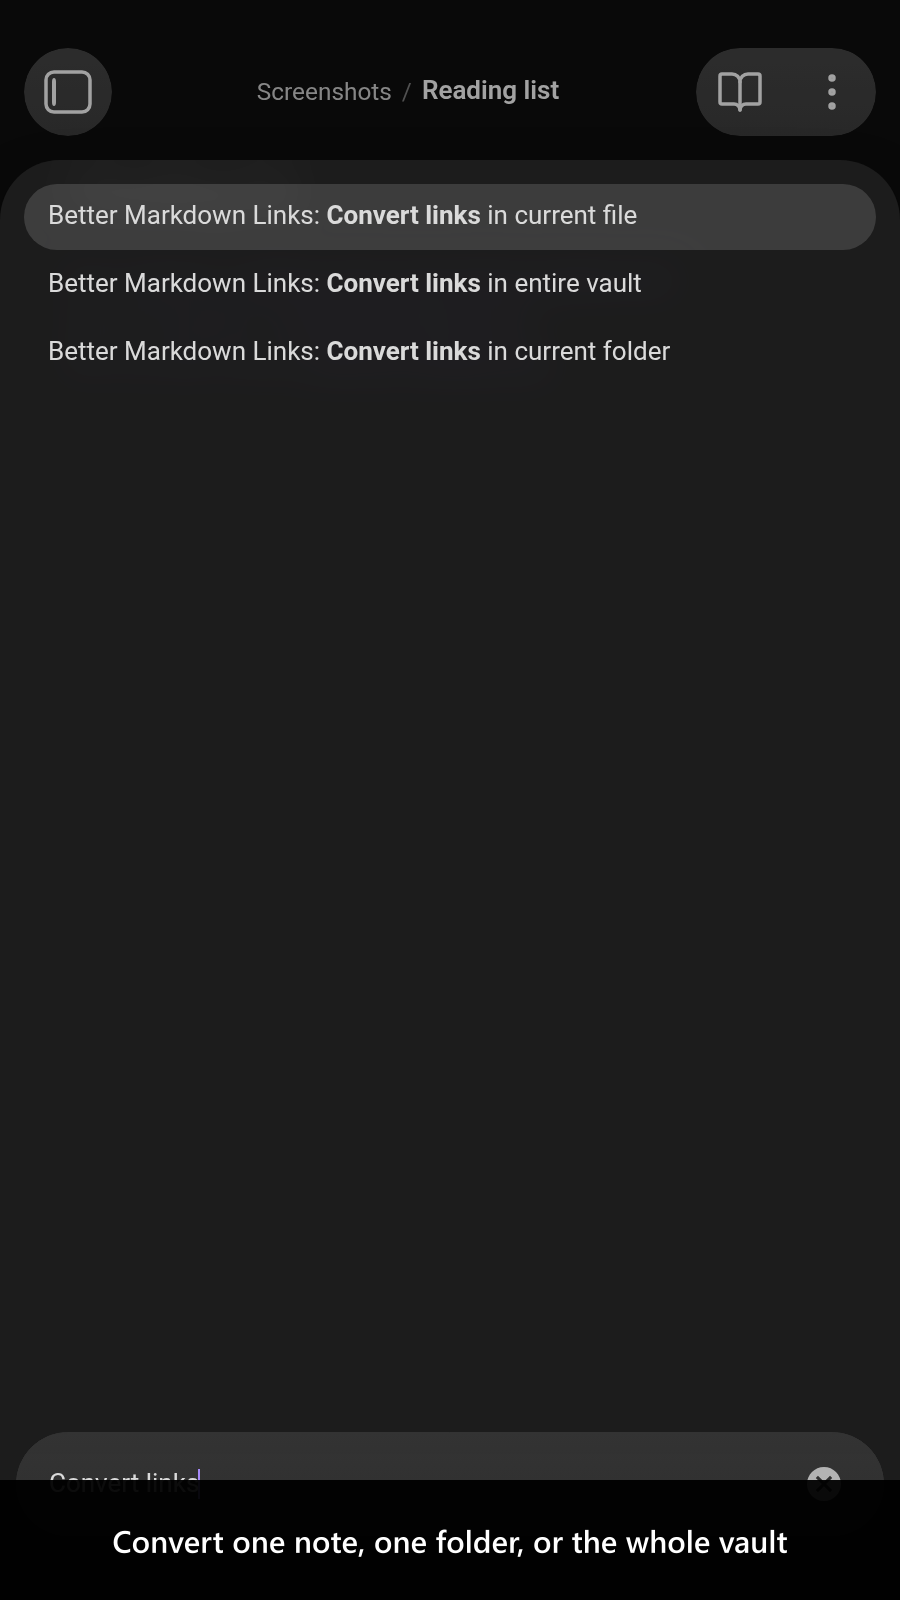
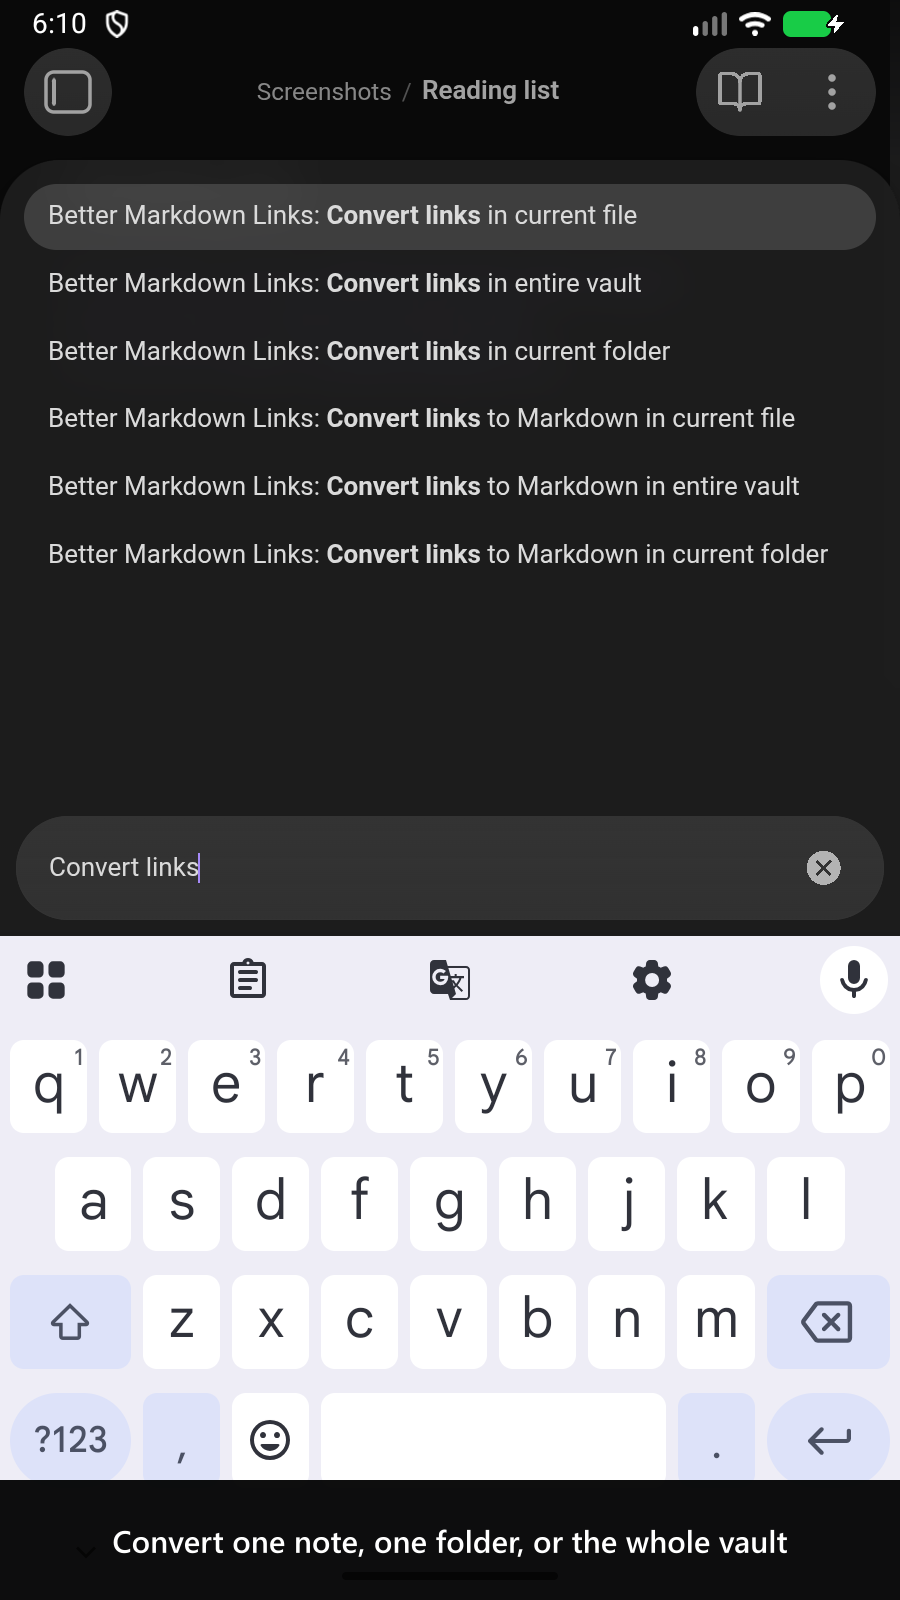
test(integration): take the palette frame with the soft keyboard up
The command-palette frame is a focused search field over nothing: the page
capture it used cannot show a keyboard, because it drives Appium in the
WebView context and the IME is a system window rather than part of the page.
So two thirds of the frame was an empty band where a phone shows a keyboard,
and the caption band - drawn across the bottom of the image - landed on the
field itself.

That frame now comes from the device framebuffer with the keyboard raised
first. Measured as the largest contiguous flat row-run it falls from 67.0% to
15.8%, and all six convert commands plus the typed query are legible, which is
what the caption promises. Both halves of raising it come from the harness:
the AVD is built with a hardware keyboard attached, so Android suppresses the
on-screen one until the device setting is flipped, and a WebView will not ask
for an IME on programmatic focus alone, so it takes a real touch on the field.
The setting is restored exactly afterwards, including the case where it had
never been written.

Two other things had to be fixed to get a usable frame at all.

The companion-plugin suggestion is now dismissed before any shot. The temp
vault holds only this plugin, so the offer to install Advanced Rename and
Delete Handler always fires, and its notice sat across the top of every frame
- covering the first palette row in the very shot whose subject is that list.
It takes two clicks and both are needed: Not now records the decline, but the
[…]

diff --git a/src/screenshots.android-capture.integration.test.ts b/src/screenshots.android-capture.integration.test.ts
@@ -20,10 +20,14 @@ import {
 import { join } from 'node:path';
 import process from 'node:process';
 import {
+  captureDeviceScreenshot,
   captureObsidianScreenshot,
   evalInObsidian,
   labelScreenshot,
-  readPngDimensions
+  raiseSoftKeyboard,
+  readPngDimensions,
+  resolveEmulatorDeviceId,
+  withSoftKeyboardEnabled
 } from 'obsidian-integration-testing';
 import { getTemporaryVault } from 'obsidian-integration-testing/vitest-global-setup-plugin';
 import {
@@ -70,7 +74,40 @@ const PLAIN_NOTE_PATH = 'Screenshots/Second chapter.md';
 
 const IMAGES_DIRECTORY = join(process.cwd(), 'images', 'screenshots');
 
+/**
+ * The AVD the frames are taken on, matched by name.
+ *
+ * Never the first device `adb devices` lists: a physical phone is routinely plugged into the same
+ * machine, and the shared AVD the cross-platform suites drive is a different size.
+ */
+const AVD_NAME = 'obsidian_screenshots';
+
+/**
+ * Obsidian's command palette input, read off this suite's own palette helper rather than assumed: the
+ * palette renders `.prompt input`, which is not the `.prompt-input` a suggester renders.
+ */
+const PALETTE_INPUT_SELECTOR = '.prompt input';
+
+/**
+ * The button that turns down the companion-plugin suggestion — see
+ * {@link declineCompanionPluginSuggestion}.
+ *
+ * The label comes from the shared library's own translations, so it is quoted here rather than
+ * constructed.
+ */
+const SUGGESTION_DECLINE_LABEL = 'Not now';
+
+/**
+ * The `aria-label` on the close button the shared library appends to a notice that requires an explicit
+ * close. The button carries an icon rather than text, so the label is the only thing to match on.
+ */
+const SUGGESTION_CLOSE_ARIA_LABEL = 'Close';
+
+let deviceId = '';
+
 beforeAll(async () => {
+  deviceId = await resolveEmulatorDeviceId({ avdName: AVD_NAME });
+
   const vault = getTemporaryVault();
 
   vault.populate({
@@ -115,6 +152,8 @@ beforeAll(async () => {
     input: { fontSizeInPixels: MOBILE_FONT_SIZE_IN_PIXELS, subjectNotePath: SUBJECT_NOTE_PATH },
     vaultPath: vaultPath()
   });
+
+  await declineCompanionPluginSuggestion();
 });
 
 describe('mobile store screenshots', () => {
@@ -136,7 +175,7 @@ describe('mobile store screenshots', () => {
 
   it('3 - converting what is already there', async () => {
     await openCommandPalette('Convert links');
-    await shoot(3, 'Convert one note, one folder, or the whole vault');
+    await shootWithSoftKeyboard(3, 'Convert one note, one folder, or the whole vault');
   });
 });
 
@@ -193,6 +232,60 @@ async function convertLinksInNote(): Promise<string> {
       return await app.vault.read(file);
     },
     input: { pluginId: PLUGIN_ID, subjectNotePath: SUBJECT_NOTE_PATH },
+    vaultPath: vaultPath()
+  });
+}
+
+/**
+ * Dismisses the companion-plugin suggestion, so it is not in the frames.
+ *
+ * On load the plugin offers to install Advanced Rename and Delete Handler, through a notice carrying
+ * `Install and enable` / `Not now` and a close button. The temp vault holds only this plugin, so the
+ * offer always fires — and the notice sat across the top of every frame, covering the first palette row
+ * in the very shot whose subject IS that list.
+ *
+ * **Two clicks, and both are needed.** `Not now` records the decline so the offer does not return, but
+ * it deliberately does not take the notice off screen: the suggestion is shown with
+ * `shouldHideOnClick: false`, so only the close button removes it. Clicking `Not now` alone was tried
+ * first and timed out waiting for a notice that was never going to leave.
+ *
+ * @returns A {@link Promise} that resolves once the suggestion is off screen.
+ */
+async function declineCompanionPluginSuggestion(): Promise<void> {
+  await evalInObsidian({
+    async callback({ closeLabel, declineLabel, lib: { clickElement, waitUntil } }) {
+      const NOTICE_TIMEOUT_IN_MILLISECONDS = 15_000;
+
+      // Nothing to dismiss is a perfectly good state: the suggestion is skipped once the setting records
+      // That it was declined, and that setting outlives a reload.
+      const declineButton = findNoticeButton(declineLabel, null);
+      if (declineButton) {
+        await clickElement({ element: declineButton });
+      }
+
+      const closeButton = findNoticeButton(null, closeLabel);
+      if (closeButton) {
+        await clickElement({ element: closeButton });
+      }
+
+      // Waits for THIS notice to go rather than for the notice area to empty, so an unrelated notice
+      // Cannot hold the wait open.
+      await waitUntil({
+        message: 'the suggestion notice to close',
+        predicate: () => !findNoticeButton(declineLabel, null),
+        timeoutInMilliseconds: NOTICE_TIMEOUT_IN_MILLISECONDS
+      });
+
+      function findNoticeButton(text: null | string, ariaLabel: null | string): HTMLElement | null {
+        const button = [...document.querySelectorAll('.notice button')].find((candidate) =>
+          (text === null || candidate.textContent === text)
+          && (ariaLabel === null || candidate.getAttribute('aria-label') === ariaLabel)
+        );
+
+        return button instanceof HTMLElement ? button : null;
+      }
+    },
+    input: { closeLabel: SUGGESTION_CLOSE_ARIA_LABEL, declineLabel: SUGGESTION_DECLINE_LABEL },
     vaultPath: vaultPath()
   });
 }
@@ -283,6 +376,61 @@ async function openNote(): Promise<string> {
 async function shoot(index: number, caption: string): Promise<void> {
   const captured = await captureObsidianScreenshot({ vaultPath: vaultPath() });
 
+  await writeFrame(index, caption, captured);
+}
+
+/**
+ * Raises the soft keyboard, captures the DEVICE, and writes the frame.
+ *
+ * For a shot whose subject is a focused field. `captureObsidianScreenshot` cannot show a keyboard: it
+ * drives Appium in the WebView context, so it photographs the page, and the IME is a system window that
+ * is not part of the page — which left such a frame as a field over a large empty band, with the caption
+ * band landing on the field and clipping the typed text.
+ *
+ * Two things are needed and both belong to the harness rather than here: the AVD is built with a hardware
+ * keyboard attached, so Android suppresses the on-screen one until `withSoftKeyboardEnabled` lifts that
+ * and puts the setting back exactly — including putting back a setting that had never been written, which
+ * takes a delete rather than a write; and a WebView will not ask for an IME on programmatic focus alone,
+ * so `raiseSoftKeyboard` lands a real touch on the field and then proves geometrically that it lifted,
+ * because nothing in the page reports the keyboard.
+ *
+ * The trade, which applies only to the shots that switch: a device capture is **not** byte-reproducible,
+ * because the status-bar clock and the battery indicator are in it. A shot with no focused field keeps
+ * {@link shoot} and stays reproducible — a real phone shows no keyboard there either, so raising one
+ * would make that frame less true rather than more.
+ *
+ * @param index - The 1-based listing position.
+ * @param caption - The caption drawn across the bottom of the frame.
+ */
+async function shootWithSoftKeyboard(index: number, caption: string): Promise<void> {
+  const captured = await withSoftKeyboardEnabled({
+    async callback() {
+      await raiseSoftKeyboard({
+        deviceId,
+        inputSelector: PALETTE_INPUT_SELECTOR,
+        vaultPath: vaultPath()
+      });
+
+      return await captureDeviceScreenshot({ deviceId });
+    },
+    deviceId
+  });
+
+  await writeFrame(index, caption, captured);
+}
+
+function vaultPath(): string {
+  return getTemporaryVault().path;
+}
+
+/**
+ * Asserts the frame is the store size, captions it, and writes it out.
+ *
+ * @param index - The 1-based listing position.
+ * @param caption - The caption drawn across the bottom of the frame.
+ * @param captured - The raw PNG, from either capture route.
+ */
+async function writeFrame(index: number, caption: string, captured: Uint8Array): Promise<void> {
   // The AVD is 900x1600, so the device frame IS the store size. Asserting it
   // Here is what keeps that true: run this against any other AVD and it fails
   // Loudly instead of quietly shipping an off-spec image.
@@ -295,8 +443,4 @@ async function shoot(index: number, caption: string): Promise<void> {
 
   mkdirSync(IMAGES_DIRECTORY, { recursive: true });
   writeFileSync(join(IMAGES_DIRECTORY, `screenshot-mobile-${String(index)}.png`), labeled);
-}
-
-function vaultPath(): string {
-  return getTemporaryVault().path;
 }

diff --git a/AGENTS.md b/AGENTS.md
@@ -51,3 +51,37 @@ Better Markdown Links is an Obsidian plugin that adds support for angle bracket 
   - `patches/editor-save-file-command-patch-component.ts` — `MonkeyAroundComponent` patching the `editor:save-file` command's `checkCallback` to tag the active file so a Ctrl+S save is distinguishable from an auto-save
   - `styles/` — `main.scss` plus `scss.d.ts` ambient module declaration
 - **`main` field** points to `src/main.ts` (Obsidian plugin source entry; built artifact is `dist/build/main.js`, not published to npm).
+
+## Testing notes
+
+### The mobile screenshot capture suite
+
+The mobile frames are captured by **two different routes**, and which route a frame takes is a decision
+about that frame rather than a style choice:
+
+- **A frame whose subject is not a focused field captures the PAGE** (`captureObsidianScreenshot`), which
+  is byte-reproducible: no status bar and no clock, so re-capturing an unchanged frame leaves no diff. A
+  real phone shows no keyboard on such a screen either, so raising one would make the frame *less* true.
+- **A frame whose subject IS a focused field captures the DEVICE** (`captureDeviceScreenshot`), with the
+  soft keyboard raised first. A page capture cannot show a keyboard: it drives Appium in the WebView
+  context, so it photographs the page, and the IME is a system window that is not part of the page. That
+  left the command-palette frame as a search field over a large empty band, with the caption band — drawn
+  across the bottom of the image — landing on the field and clipping the typed text. **The cost is that
+  the switched frame is no longer byte-reproducible**, since the status-bar clock and the battery
+  indicator are in it. Do not "fix" that churn by putting it back on the page capture, and do not switch
+  the other frames over for consistency.
+- **Raising the keyboard takes TWO things**, which is why both belong to `obsidian-integration-testing`
+  rather than being copied in here. The AVD is built with a hardware keyboard attached, so Android
+  suppresses the on-screen one entirely — `withSoftKeyboardEnabled` lifts that for the duration of a shot
+  and restores the device exactly, including restoring a setting that had never been written, which takes
+  a delete rather than a write. And a WebView will not ask for an IME on programmatic focus alone:
+  `raiseSoftKeyboard` lands a real touch on the field and then proves geometrically that it lifted,
+  because nothing in the page reports the keyboard — `innerHeight`, `visualViewport` and the modal
+  container all keep their full height with it shown. A failure writes the device framebuffer and the
+  device's own input-method state to `dist/screenshots/`, because a bare assertion failure here is
+  unreadable.
+- **A passing lift check is not the same as a good frame.** The check asks whether the FIELD moved clear
+  of the bottom; it cannot tell you the keyboard covered the thing the shot is evidence for. So look at a
+  switched frame, every time, rather than trusting the measurement alone.
+- **The field it touches is read off the suite, not assumed.** The command palette renders
+  `.prompt input`, which is not the `.prompt-input` a suggester renders.
